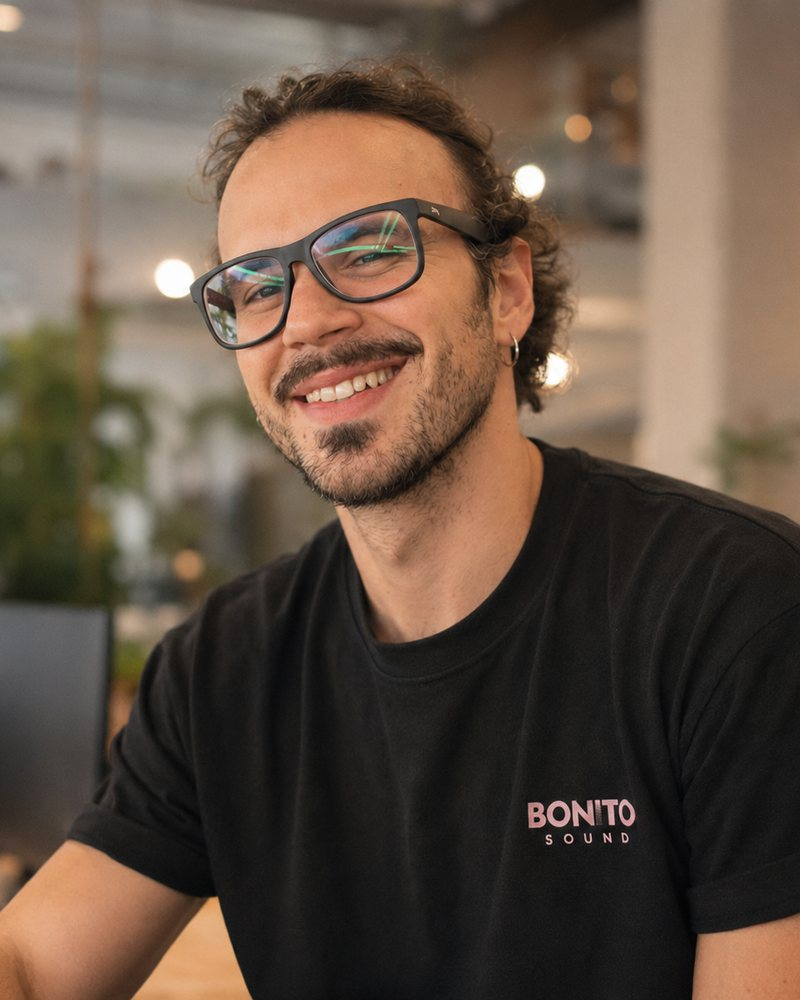
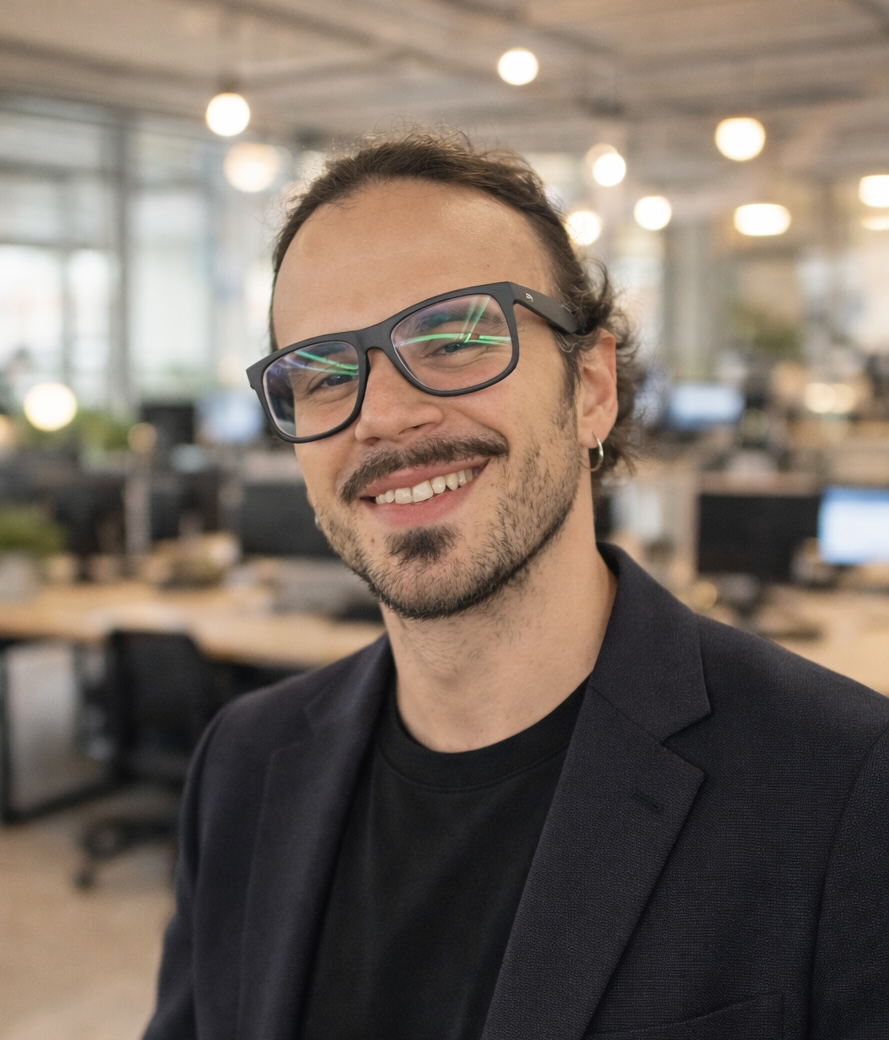
eventos: título del muro de marcas -> 'Marcas que han querido hacerlo bonito.'

diff --git a/components/eventos/EventosBrands.tsx b/components/eventos/EventosBrands.tsx
@@ -28,7 +28,7 @@ export function EventosBrands({ eventos }: { eventos: Evento[] }) {
           Marcas que han confiado
         </p>
         <h2 className="font-round text-3xl font-bold md:text-5xl" style={{ color: NAVY }}>
-          Cuántos hemos montado, marca por marca.
+          Marcas que han querido hacerlo bonito.
         </h2>
 
         <div className="mt-10 grid grid-cols-2 gap-x-8 gap-y-9 sm:grid-cols-3 lg:grid-cols-4">
